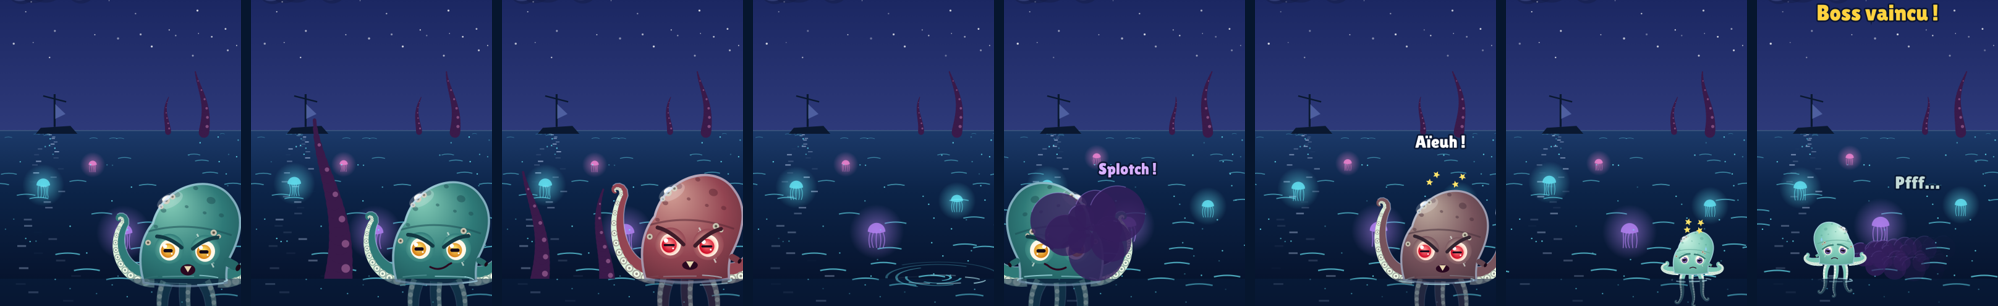
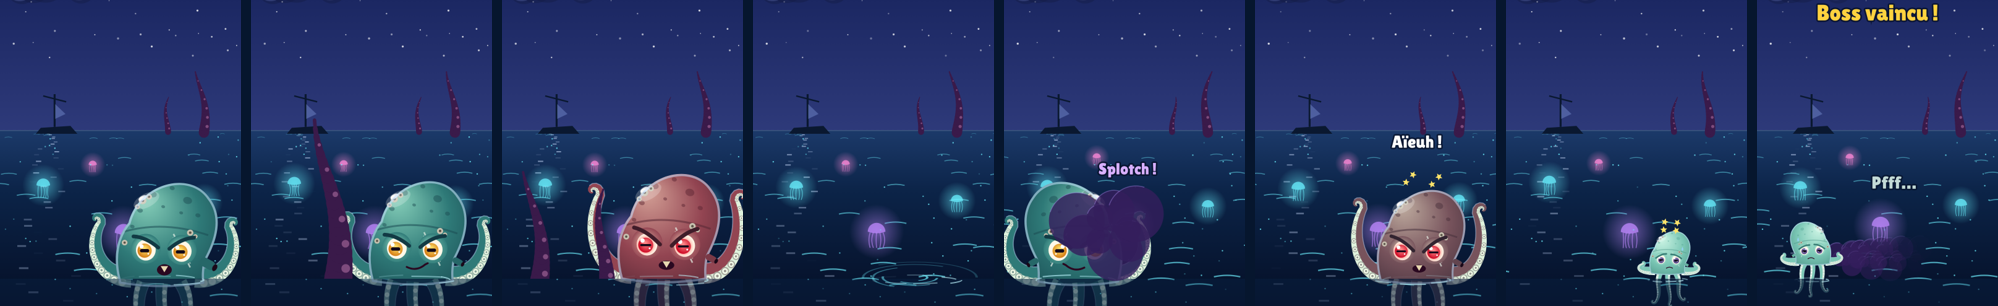
Monde 4 : maquette du boss recentrée
Claude-Session: https://claude.ai/code/session_01NEC92qwxswvqqiEaD4C6hh

diff --git a/design/brouillons/2026-11-18-ocean-maquettes.html b/design/brouillons/2026-11-18-ocean-maquettes.html
@@ -509,7 +509,7 @@ function kraken3(x, y, s, t, o = {}) {
 function bossScene(t) {
   if (BS === 9) { const T = t; krakenW(215, SEA - 40, .95, T, { charge: Math.max(0, Math.sin(T * .03)) * .5 }); return; }
   if (BS === 8) { krakenW(215, SEA - 40, .95, t, { rage: 1, charge: .3 }); return; }
-  const K = { x: 300, y: SEA - 40 };
+  const K = { x: 262, y: SEA - 40 };
   if (BS === 1) { krakenW(K.x, K.y + Math.sin(t * .035) * 5, 1, t, { charge: Math.max(0, Math.sin(t * .03)) }); }
   if (BS === 2) { const T = t % 200, warn = T < 70, slam = T >= 70 && T < 120;
     krakenW(K.x, K.y + Math.sin(t * .035) * 5, 1, t);
@@ -521,8 +521,8 @@ function bossScene(t) {
     /* plonge dans un tourbillon (à droite), ressort à gauche en crachant de l'encre */
     if (q < .45) { const d = ease(q / .45); krakenW(K.x, K.y + d * 220, 1, t, { rage: .4 });
       c.save(); c.translate(K.x, SEA - 2); c.scale(1, .25); for (let i = 0; i < 6; i++) { c.strokeStyle = `rgba(110,240,255,${(.7 - i * .1).toFixed(3)})`; c.lineWidth = 4; const a0 = -t * .12 + i; c.beginPath(); c.arc(0, 0, 20 + i * 16, a0, a0 + 2.2); c.stroke(); } c.restore(); }
-    else { const u = (q - .45) / .55, e = ease(Math.min(1, u * 2.2)); krakenW(90, K.y + (1 - e) * 220, 1, t, { flip: true, charge: u < .5 ? u * 2 : 0 });
-      inkCloud(140, K.y - 40, (u - .45) / .55, 1.6); ftxt('Splotch !', 200, K.y - 120, (u - .5) / .5, '#d8b0ff', 26); } }
+    else { const u = (q - .45) / .55, e = ease(Math.min(1, u * 2.2)); krakenW(120, K.y + (1 - e) * 220, 1, t, { flip: true, charge: u < .5 ? u * 2 : 0 });
+      inkCloud(170, K.y - 40, (u - .45) / .55, 1.6); ftxt('Splotch !', 200, K.y - 120, (u - .5) / .5, '#d8b0ff', 26); } }
   if (BS === 5) { const T = t % 320;
     const star5 = (x, y, r, a) => { c.save(); c.translate(x, y); c.rotate(a); c.beginPath(); for (let i = 0; i < 10; i++) { const rr = i % 2 ? r * .45 : r, an = -Math.PI / 2 + i * Math.PI / 5; c.lineTo(Math.cos(an) * rr, Math.sin(an) * rr); } c.closePath(); c.fill(); c.restore(); };
     if (T < 120) { /* coup final, puis il rapetisse, sonné */
